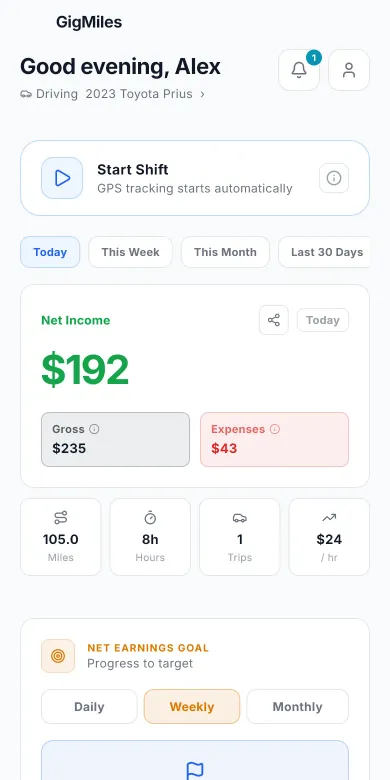
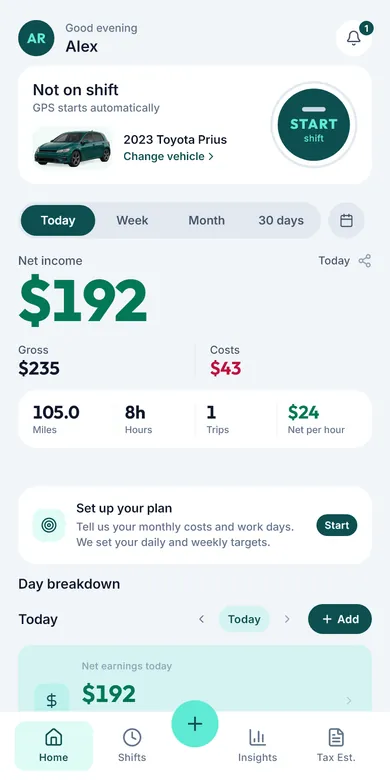
feat(web): the real Home screen, on the site and in a driver's hand
The tour's first capture and the closing scene used the app's old UI. Both
now show the Home screen as it ships (1.1.0+29), rendered from the app's
own source with a golden test: canonical shift $235 gross, $43 costs,
$192 net, 105.0 mi, 8 h, $24/hr, Alex, 2023 Toyota Prius; the "Tax to set
aside" row is off via the same Layout & Sections preference a driver has.

- public/editorial/tour-home.webp (+ -390): fresh 780x1560 capture.
- public/cinematic/closing-scene.webp: dawn scene between an open trunk of
  deliveries and an e-bike, the phone held to camera with the real screen
  composited by a matrix3d homography (scratch script; photo sources are
  gitignored *-source.png). The bookend swaps hero-last for it; the film's
  last frame stays on disk. CINEMATIC_VERSION bumped (immutable cache).
- Mobile crop re-centred on the phone (object-position 50% 52%).
- cinematic-controller: the paced progress always writes its settling
  frame, however small the last step; CinematicHome's scrub test caught
  the missed write (--p stuck at 0.0002) as a flake.

diff --git a/src/components/cinematic/cinematic.css b/src/components/cinematic/cinematic.css
@@ -333,10 +333,11 @@ html:has(.cine-page) { scroll-behavior: auto; }
 }
 .editorial-site .cine-essay strong { font-weight: 700; color: #0b302b; }
 
-/* ---- the bookend: the page ends on the film's last frame ------------------
+/* ---- the bookend: the page ends at dawn, with the phone on -----------------
    Same paper, same rounded top edge and shadow as the section that first slid
    over the film, so the ending rhymes with the beginning. The frame is the
-   film's own last frame, still, with the offer beside it. */
+   closing scene: the real Home screen in a driver's hand, trunk and e-bike
+   behind it, in the film's dawn light. */
 .editorial-site .cine-bookend {
   position: relative;
   background: var(--paper);
@@ -356,7 +357,7 @@ html:has(.cine-page) { scroll-behavior: auto; }
   display: block;
   width: 100%;
   height: auto;
-  aspect-ratio: 900 / 1603;
+  aspect-ratio: 941 / 1672;
   object-fit: cover;
   border-radius: 22px;
   box-shadow: 0 40px 80px -40px #0b302b99;
@@ -368,14 +369,14 @@ html:has(.cine-page) { scroll-behavior: auto; }
 .editorial-site .cine-bookend-copy .close-trust { margin: 16px 0 0; font-size: 14px; color: #3f6a55; }
 .editorial-site .cine-bookend-copy .close-small { margin: 6px 0 0; font-size: 12px; color: #5f8570; }
 @media (max-width: 980px) {
-  /* The ending is one screen on a phone: the seat and the phone as a wide
-     band, cropped to where the phone lies, then the statement and the button.
-     Stacked at full height the picture alone took a screen and the last thing
-     anyone saw was the footer. */
+  /* The ending is one screen on a phone: the scene as a wide band, cropped to
+     where the phone is held (its screen spans 36–69% of the frame height),
+     then the statement and the button. Stacked at full height the picture
+     alone took a screen and the last thing anyone saw was the footer. */
   .editorial-site .cine-bookend { padding: clamp(2.6rem, 8vh, 4rem) 0 clamp(2.4rem, 7vh, 3.4rem); }
   .editorial-site .cine-bookend-inner { grid-template-columns: 1fr; row-gap: 1.3rem; }
   .editorial-site .cine-bookend-frame { justify-self: stretch; width: 100%; }
-  .editorial-site .cine-bookend-frame img { aspect-ratio: 4 / 3; object-position: 50% 64%; border-radius: 18px; }
+  .editorial-site .cine-bookend-frame img { aspect-ratio: 4 / 3; object-position: 50% 52%; border-radius: 18px; }
   .editorial-site .cine-bookend h2 { font-size: clamp(30px, 8vw, 40px); }
   .editorial-site .cine-bookend-copy > p { margin-top: 12px; font-size: 16px; }
   .editorial-site .cine-bookend-copy .button { margin-top: 18px; }

diff --git a/src/components/cinematic/CinematicHome.tsx b/src/components/cinematic/CinematicHome.tsx
@@ -64,12 +64,14 @@ export function CinematicHome({variant = 'film', plateVariant}: {variant?: 'film
         page it replaces, and these are the answers search actually reads. */}
     <HomeFaq variant="v2"/>
 
-    {/* The page ends where the film ended: the same rear seat at dawn, the
-        same dark phone, with the offer beside it. */}
+    {/* The page ends at dawn again, but now the phone is on: the real Home
+        screen (rendered from the app source) in a driver's hand, between an
+        open trunk of deliveries and an e-bike. Same light as the film's last
+        frame, so the ending still rhymes with it. */}
     <section className="cine-bookend" id="download" aria-labelledby="bookend-title">
       <div className="wrap cine-bookend-inner">
         <figure className="cine-bookend-frame" data-reveal="">
-          <img src={CINEMATIC_ASSETS.last} width={900} height={1603} alt="The rear seat at dawn, from the end of the film: the delivery bag, a key, a receipt and a phone." loading="lazy" decoding="async"/>
+          <img src={CINEMATIC_ASSETS.scene} width={941} height={1672} alt="A driver at dawn holding a phone showing the GigMiles Home screen: Net income $192 today from $235 gross and $43 costs, 105.0 miles, 8 hours, $24 per hour. Behind the phone, a sedan with its trunk open holding a delivery bag and parcels, and an e-bike with a delivery box. Example inputs, not a customer’s earnings." loading="lazy" decoding="async"/>
         </figure>
         <div className="cine-bookend-copy" data-reveal="" style={{'--d': '120ms'} as React.CSSProperties}>
           <h2 id="bookend-title">Stop guessing.<br/><em>Start with your next shift.</em></h2>

diff --git a/src/components/cinematic/cinematic-cues.ts b/src/components/cinematic/cinematic-cues.ts
@@ -2,7 +2,7 @@ import {progressAtFraction, type CueSpec, type LightSpec, type Rgb} from './cine
 
 // Bump when the encoded files change so cached copies are never scrubbed
 // against an old cue table.
-export const CINEMATIC_VERSION = '2026-09-03f5'
+export const CINEMATIC_VERSION = '2026-09-13a'
 
 /** Page progress at which the film reaches its last frame (the rest is the hold). */
 export const END_AT = 0.74
@@ -18,8 +18,17 @@ export const CINEMATIC_ASSETS = {
   // painted over it.
   poster: `/cinematic/hero-poster.webp?v=${CINEMATIC_VERSION}`,
   posterMobile: `/cinematic/hero-poster-mobile.webp?v=${CINEMATIC_VERSION}`,
-  /** The film's last frame, for the page's closing section: it ends where the film ended. */
+  /** The film's last frame (kept on disk; no longer shown). */
   last: `/cinematic/hero-last.webp?v=${CINEMATIC_VERSION}`,
+  /**
+   * The closing scene: a driver at dawn between an open trunk of deliveries
+   * and an e-bike, holding the phone with the REAL Home screen composited on
+   * it (rendered from the app source, 1.1.0+29, canonical $235 → $192 shift).
+   * Source photo is public/cinematic/closing-scene-source.png (gitignored);
+   * re-composite with the scratch script when either the photo or the app
+   * screen changes.
+   */
+  scene: `/cinematic/closing-scene.webp?v=${CINEMATIC_VERSION}`,
   /** Continuous paper film v5: one native 30 s generation, no cuts, no stitch. */
   duration: 30.0417,
 }

diff --git a/src/components/cinematic/cinematic-controller.ts b/src/components/cinematic/cinematic-controller.ts
@@ -538,7 +538,10 @@ export function installCinematic(root: HTMLElement, video: HTMLVideoElement | nu
       ? p
       : rateLimitStep(smoothP, p, mode === 'mobile' ? d.maxRateMobile : d.maxRateDesktop, dt)
     smoothP = sp
-    if (Math.abs(sp - lastP) > 0.0005) { lastP = sp; writeCues(sp) }
+    // Skip sub-threshold jitter, but never skip the settling write: when the
+    // paced value lands exactly on the real position the cues must show it,
+    // however small the last step was.
+    if (Math.abs(sp - lastP) > 0.0005 || (sp === p && sp !== lastP)) { lastP = sp; writeCues(sp) }
     if (mode === 'static') return
     // iOS can hold the metadata and still never fire the event we wait for.
     if (videoState === 'loading' && video && video.src && video.readyState >= 1) metadataHook?.()

diff --git a/src/components/cinematic/CinematicHome.test.tsx b/src/components/cinematic/CinematicHome.test.tsx
@@ -86,7 +86,7 @@ describe('cinematic home markup', () => {
     expect(html).not.toContain('deck-bullets')
     expect(html).not.toContain('plan-badge')
     // and it ends where the film ended
-    expect(html).toContain('/cinematic/hero-last.webp')
+    expect(html).toContain('/cinematic/closing-scene.webp')
   })
 
   it('versions every file it serves from the immutable cinematic path', () => {
